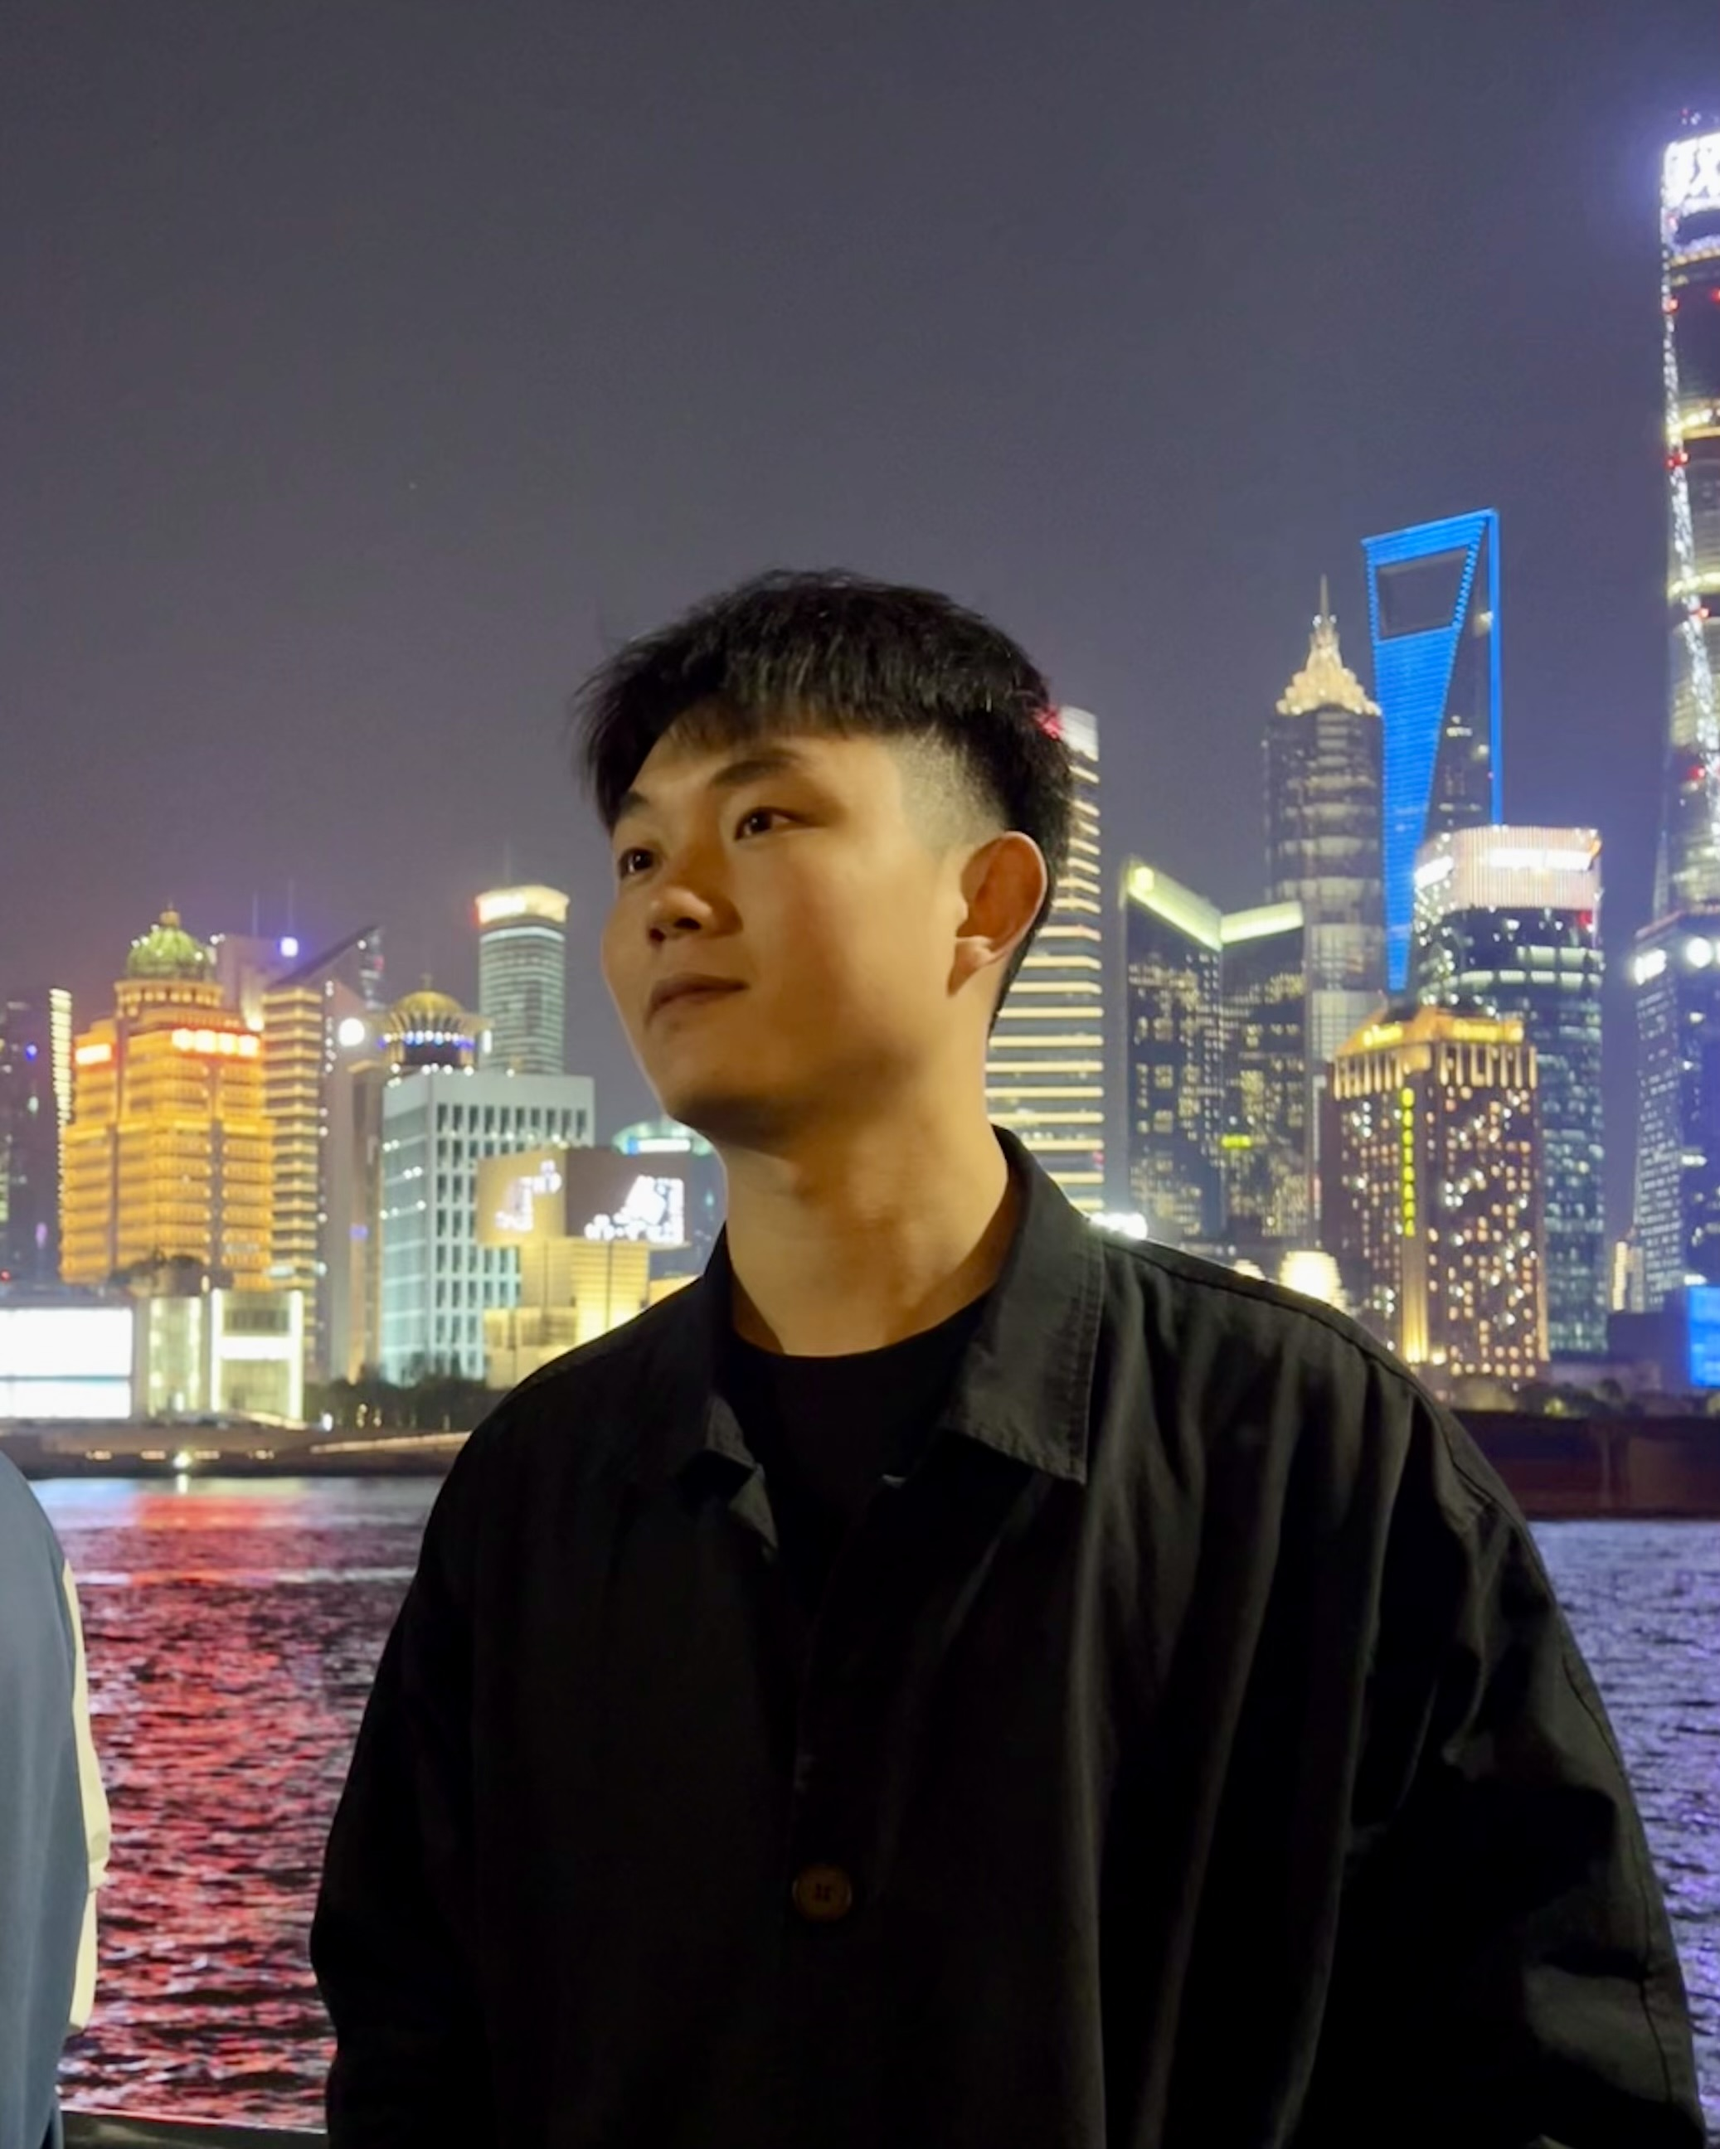
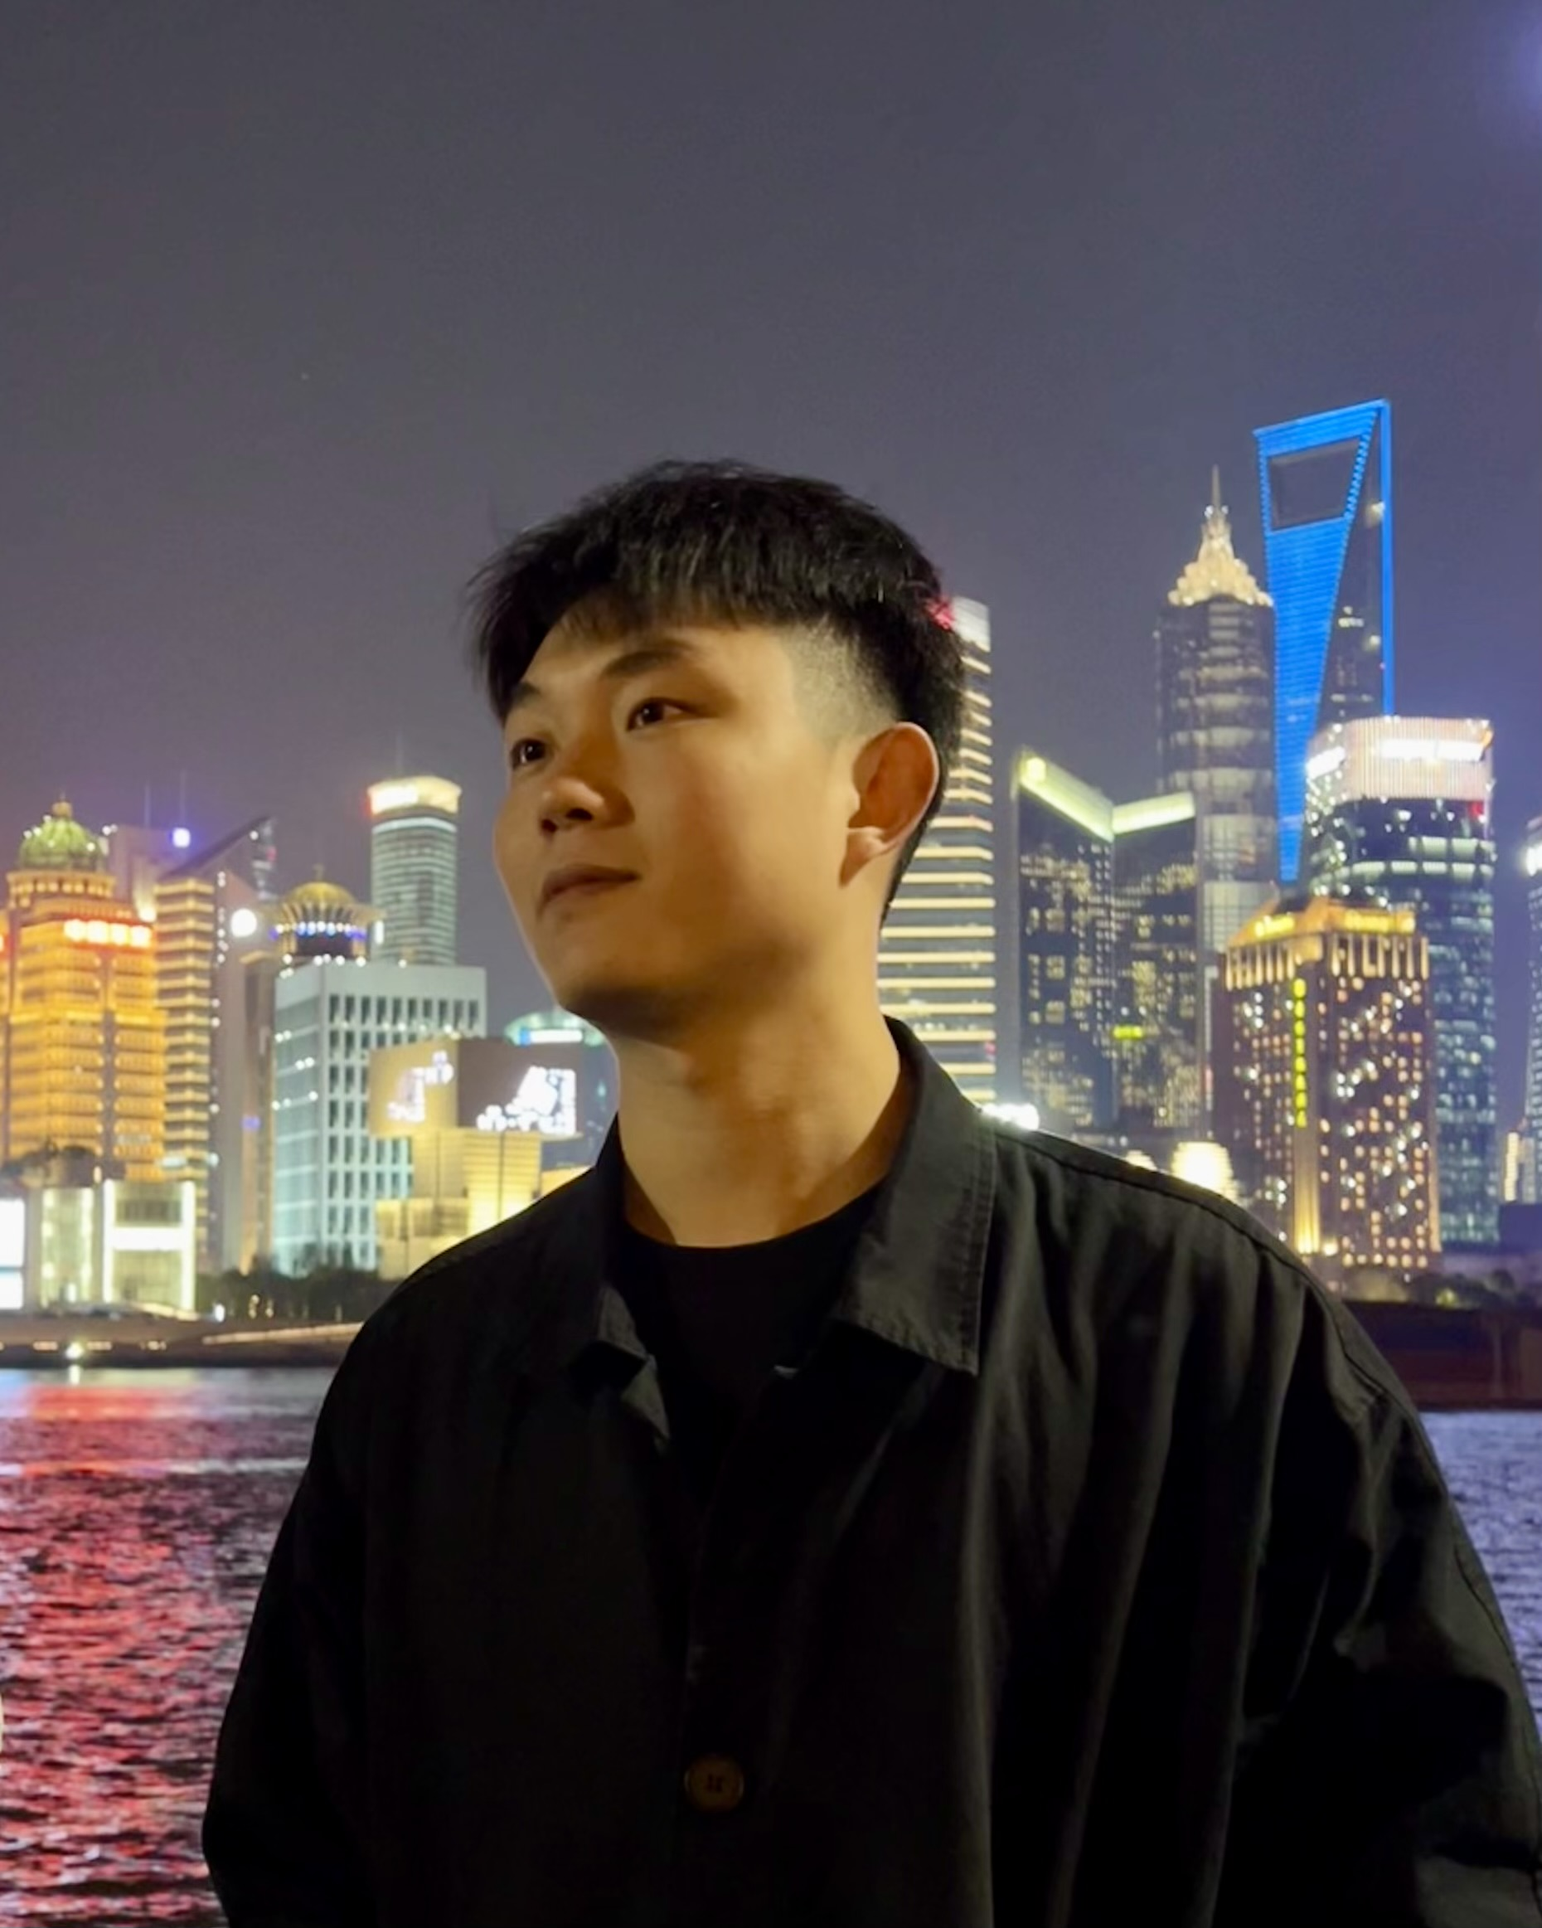
update homepage

diff --git a/index.html b/index.html
@@ -41,29 +41,13 @@
 
 	<!-- body -->
 	<body>	
-		<!-- 定义导航栏 -->
-		<!-- <nav class="navbar navbar-dark navbar-expand-lg fixed-top"> -->
-			<!-- <div id="layout-menu"> -->
-				<!-- 设置导航栏的超链接 -->
-				<!-- <a href="#"><span class="roman">Home</span></a> -->
-				<!-- <a href="#biography"><span class="roman">Biography</span></a> -->
-				<!-- <a href="#publications"><span class="roman">Publications</span></a> -->
-				<!-- <a href="#"><span class="roman">Blog Posts</span></a> -->
-			<!-- </div> -->
-		<!-- </nav> -->
 		<!-- 基本信息 -->
 		<div id="layout-content" style="margin-top:25px; width:95%">
 			<table>
 				<tbody>
-					<tr>
-						<!-- <td width="30"></td> -->
-						<td width="15"></td>
-						<!-- 第一列 头像 -->
-						<td>
-							<img src="./larry.jpg" width="135"><br>
-						</td>
-						<td width="50"></td>
-						<!-- 第二列 个人简介 -->
+					<tr>						
+						<td width="6"></td>
+						<!-- 个人简介 -->
 						<td width="670">
 							<div id="top-title">					
 								<h1 style="text-decoration:none" class="roman-title">Langrui Zhou</h1>  
@@ -76,6 +60,12 @@
 								<a href="https://github.com/LangruiZhou">GitHub</a>]<br>
 							<span class="roman">Email: langrui_zhou[AT]seu[DOT]edu[DOT]cn</span>
 						</td>
+						<td width="60"></td>
+						<!-- 头像 -->
+						<td>
+							<img src="./larry.jpg" width="150"><br>
+						</td>
+						<td width="8"></td>
 					</tr>
 				</tbody>
 			</table>
